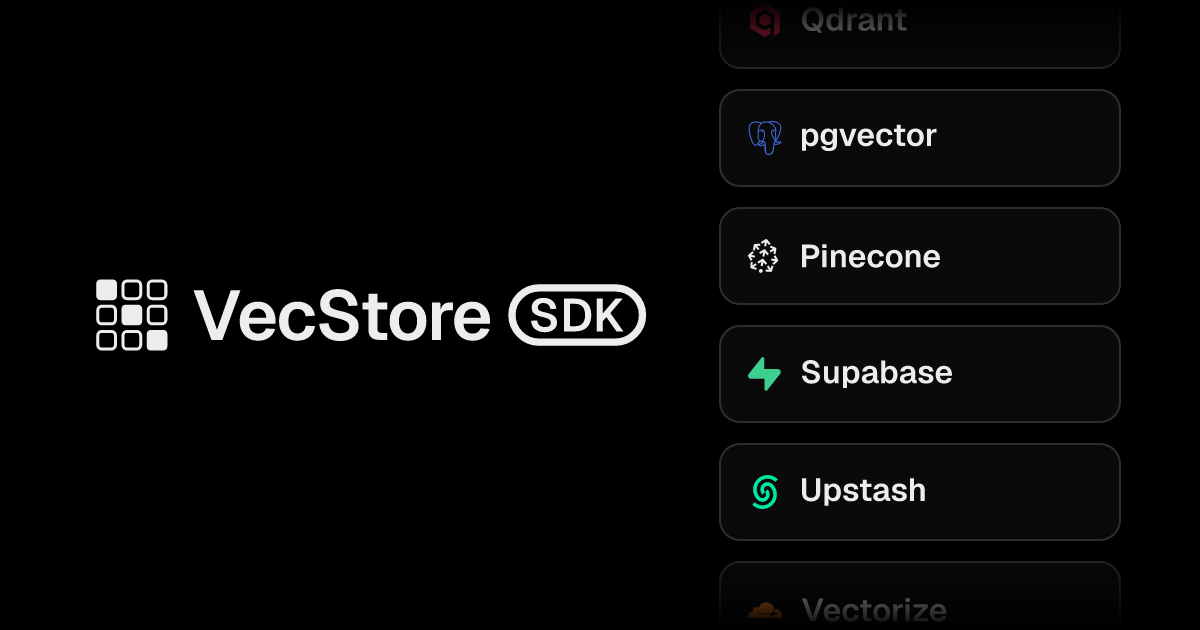
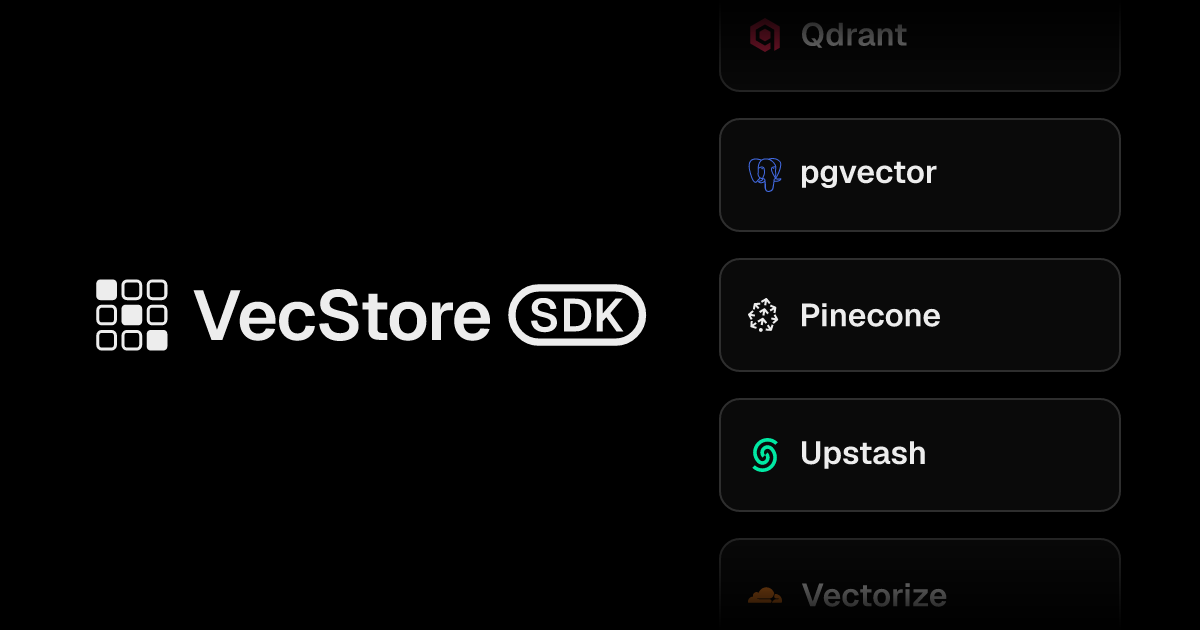
chore(assets): keep the open graph column at five cards
Fitting a sixth card meant shrinking the card height and gap, which
bought a row nobody reads: the column is masked by a fade, so the two
end cards were already half off the canvas. Go back to 112px cards with
a 28px gap and drop a row instead.

Supabase is the row to lose, because its vector support is pgvector,
which already has a card. The dot-matrix marks on the landing page and
the provider list in the docs still cover all six.

Rendered with `bun scripts/render-web-icons.ts`. The favicon and the
app icons come out byte for byte the same, so only the Open Graph image
moved.

diff --git a/scripts/render-web-icons.ts b/scripts/render-web-icons.ts
@@ -14,8 +14,8 @@ const CARD_FILL = "#0a0a0a";
 const CARD_STROKE = "#2e2e2e";
 const CARD_STROKE_WIDTH = 2;
 const CARD_WIDTH = 400;
-const CARD_HEIGHT = 96;
-const CARD_GAP = 22;
+const CARD_HEIGHT = 112;
+const CARD_GAP = 28;
 const CARD_RADIUS = 20;
 const CARD_ICON = 34;
 const CARD_ICON_INSET = 28;
@@ -95,7 +95,6 @@ const ico = (entries: readonly { size: number; png: Buffer }[]): Buffer => {
 const PINECONE_INK = INK;
 const QDRANT_RED = "#dc244c";
 const PGVECTOR_BLUE = "#4169e1";
-const SUPABASE_GREEN = "#3ecf8e";
 const UPSTASH_GREEN = "#00e9a3";
 const VECTORIZE_ORANGE = "#f6821f";
 
@@ -109,7 +108,6 @@ const rows: readonly ProviderRow[] = [
   { file: "qdrant.svg", label: "Qdrant", tint: QDRANT_RED },
   { file: "postgresql.svg", label: "pgvector", tint: PGVECTOR_BLUE },
   { file: "pinecone.svg", label: "Pinecone", tint: PINECONE_INK },
-  { file: "supabase.svg", label: "Supabase", tint: SUPABASE_GREEN },
   { file: "upstash.svg", label: "Upstash", tint: UPSTASH_GREEN },
   { file: "cloudflare.svg", label: "Vectorize", tint: VECTORIZE_ORANGE },
 ];
